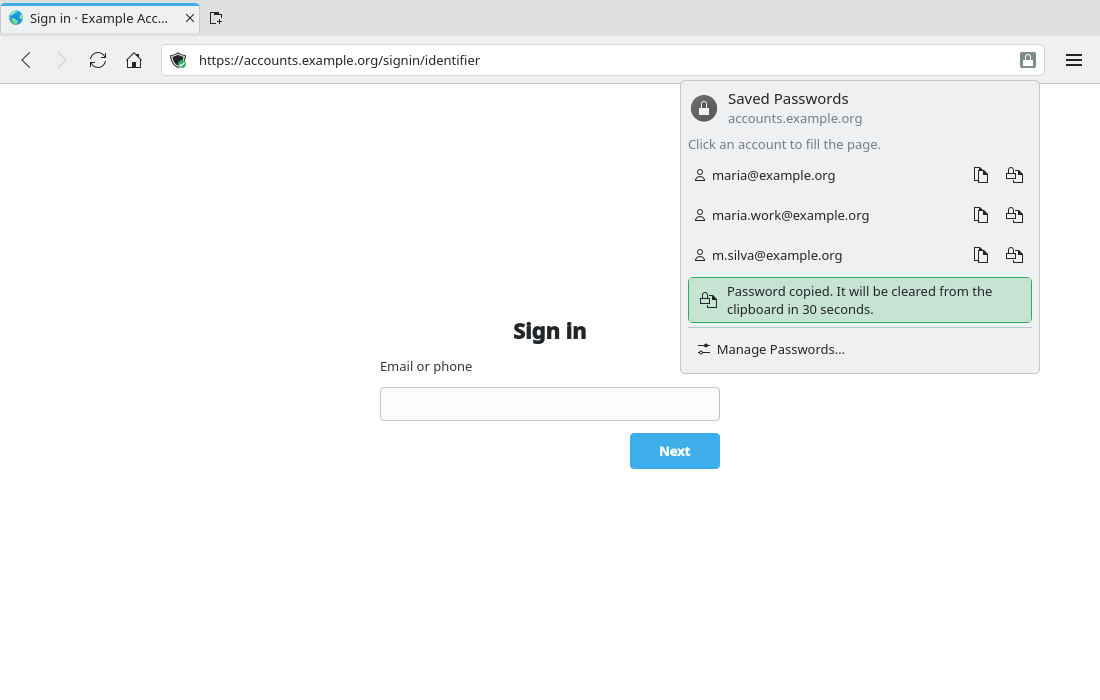
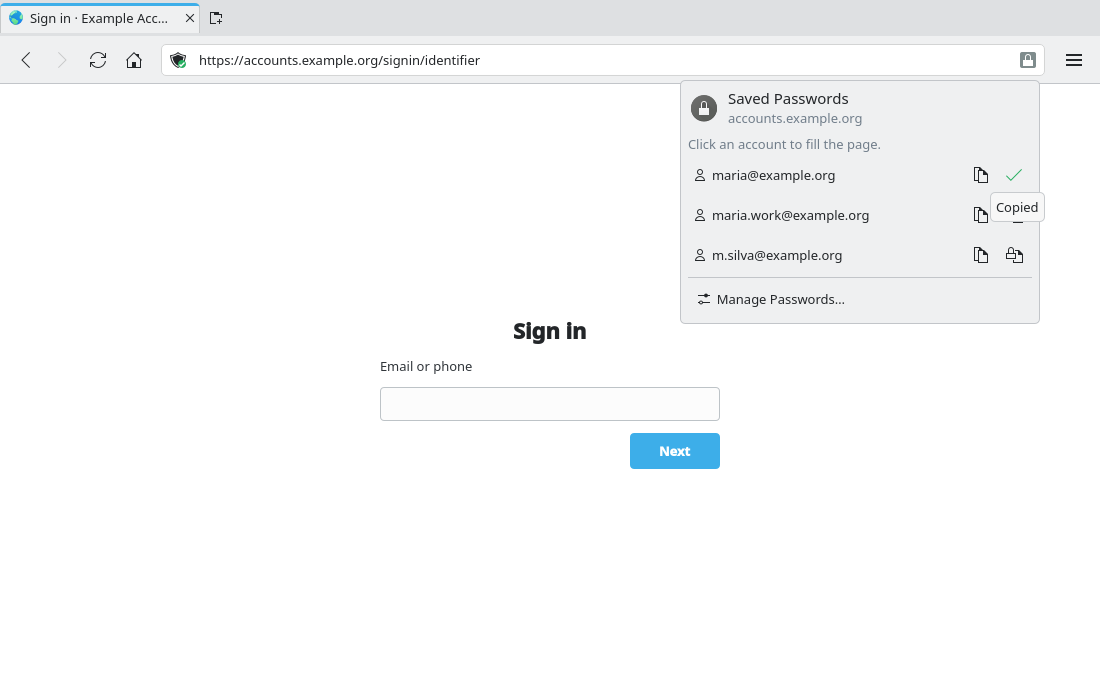
docs: show copy feedback on the button in the #176 prototype

Changed region(s): [[0.6182, 0.39, 0.9582, 0.51], [0.8964, 0.24, 0.9582, 0.33]]

diff --git a/prototypes/176-passwords-copy.qml b/prototypes/176-passwords-copy.qml
@@ -1,4 +1,5 @@
 // #176 Saved logins panel: click an account to fill, or copy its user name or password.
+// Feedback follows the KDE HIG: the copy button turns into a check mark for 2 s, no message.
 import QtQuick
 import QtQuick.Controls
 import QtQuick.Layouts
@@ -34,6 +35,7 @@ BrowserFrame {
     component AccountRow: ItemDelegate {
         id: row
         required property string username
+        property bool passwordCopied: false
         Layout.fillWidth: true
         padding: Kirigami.Units.smallSpacing
         contentItem: RowLayout {
@@ -41,7 +43,13 @@ BrowserFrame {
             Kirigami.Icon { source: "user-identity"; Layout.preferredWidth: 16; Layout.preferredHeight: 16 }
             Label { text: row.username; elide: Text.ElideRight; Layout.fillWidth: true }
             ToolButton { icon.name: "edit-copy"; display: AbstractButton.IconOnly; implicitWidth: 28; implicitHeight: 28 }
-            ToolButton { icon.name: "password-copy"; display: AbstractButton.IconOnly; implicitWidth: 28; implicitHeight: 28 }
+            ToolButton {
+                icon.name: row.passwordCopied ? "dialog-ok-apply" : "password-copy"
+                icon.color: row.passwordCopied ? Kirigami.Theme.positiveTextColor : "transparent"
+                display: AbstractButton.IconOnly
+                implicitWidth: 28
+                implicitHeight: 28
+            }
         }
     }
 
@@ -70,18 +78,19 @@ BrowserFrame {
                 color: Kirigami.Theme.disabledTextColor
                 text: "Click an account to fill the page."
             }
-            AccountRow { username: "maria@example.org" }
+            AccountRow { username: "maria@example.org"; passwordCopied: true }
             AccountRow { username: "maria.work@example.org" }
             AccountRow { username: "m.silva@example.org" }
-            Kirigami.InlineMessage {
-                Layout.fillWidth: true
-                visible: true
-                type: Kirigami.MessageType.Positive
-                icon.name: "password-copy"
-                text: "Password copied. It will be cleared from the clipboard in 30 seconds."
-            }
             Kirigami.Separator { Layout.fillWidth: true }
             Button { text: "Manage Passwords…"; icon.name: "configure"; flat: true }
         }
+    }
+
+    ToolTip {
+        popupType: Popup.Item
+        x: 990
+        y: 108
+        text: "Copied"
+        Component.onCompleted: open()
     }
 }
